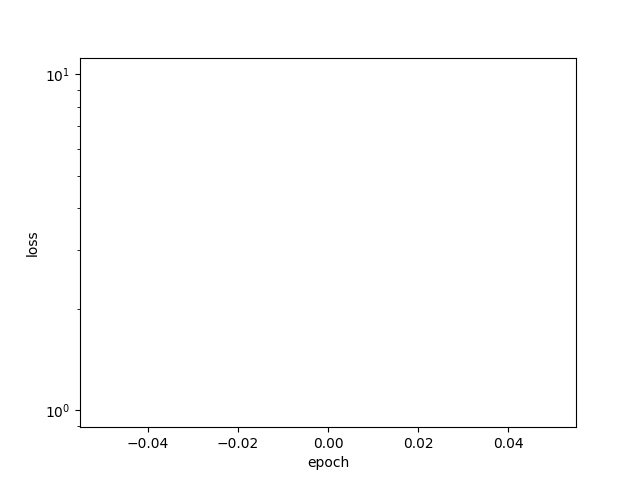
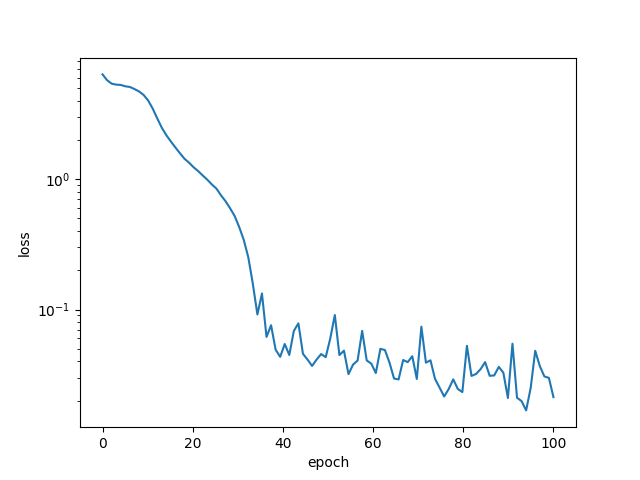
Add arguments with default values to run conditional wavenet end to end for x predictions

diff --git a/LorenzMap/main.py b/LorenzMap/main.py
@@ -23,7 +23,32 @@ from train_predict import train_predict_cw
 
 
 def main():
-    train_predict_cw()
+    """Run train and predict for the various Lorenz map prediction models with user
+    provided arguments. Assets are saved in the 'assets' folder in the project directory.
+    Assets saved are best model, losses plot and predictions vs ground truth plot.
+
+    model: can be Conditional Wavenet, Unconditional Wavenet, Conditional LSTM, Unconditional LSTM.
+    trajectory: to predict x (ts=0), y(ts=1), or z(ts=2) Lorenz trajectories.
+
+    TODO: refactor code to include more args, remove any hardcoded, etc.
+
+    """
+    parser = argparse.ArgumentParser()
+    parser.add_argument('--model', type=str, default='cw')
+    parser.add_argument('--trajectory', type=int, default=0)
+    parser.add_argument('--batch_size', type=int, default=32)
+    parser.add_argument('--epochs', type=int, default=10)
+    parser.add_argument('--Lorenzsteps', type=int, default=1500)
+    parser.add_argument('--test_size', type=int, default=500)
+    parser.add_argument('--n_hidden_LSTM', type=int, default=25)
+    parser.add_argument('--dilation_depth', type=int, default=4)
+    parser.add_argument('--receptive_field', type=int, default=16)
+
+    config = vars(parser.parse_args())
+
+    if config['model'] == 'cw':
+        train_predict_cw(ts=config['trajectory'], ntest=config['test_size'], Lorenznsteps=config['Lorenzsteps'],
+                         batch_size=config['batch_size'], epochs=config['epochs'])
 
 if __name__ == '__main__':
     main()

diff --git a/LorenzMap/train_predict.py b/LorenzMap/train_predict.py
@@ -120,7 +120,7 @@ def predict(data_iter, in_channels, net, ts):
     return preds, labels
 
 
-def train_predict_cw(ts=0, ntest=500, Lorenznsteps=1500):
+def train_predict_cw(ts=0, ntest=500, Lorenznsteps=1500, batch_size=32, epochs=100):
 
     x, y, z = getDataLorenz(Lorenznsteps)
     nTest = ntest
@@ -130,9 +130,9 @@ def train_predict_cw(ts=0, ntest=500, Lorenznsteps=1500):
     train_z, test_z = z[:nTrain], z[nTrain:]
 
     ts = ts
-    batch_size = 32
+    batch_size = batch_size
     losses, net = train_net_SGD_gluon_mc(ts, train_x, train_y, train_z, in_channels=3, receptive_field=16,
-                                         batch_size=batch_size, epochs=1, lr=0.001, l2_reg=0.001)
+                                         batch_size=batch_size, epochs=epochs, lr=0.001, l2_reg=0.001)
 
     # Plot losses
     plt = plot_losses(losses, 'wvcnx')
